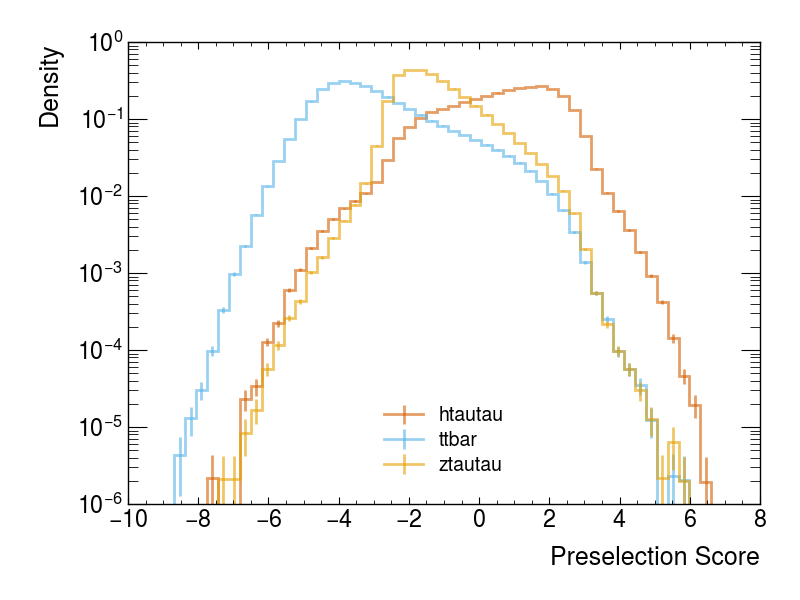
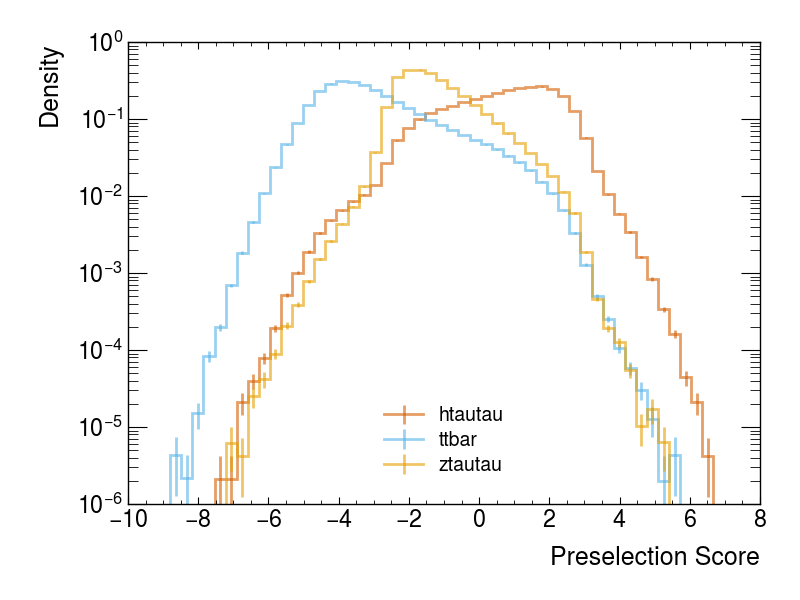
added root ntuples

diff --git a/src/nsbi_common_utils/datasets.py b/src/nsbi_common_utils/datasets.py
@@ -3,8 +3,9 @@ from collections import defaultdict
 from typing import Dict, List, Optional, Union
 import uproot
 import numpy as np
+import awkward as ak
 import pandas as pd
-
+import nsbi_common_utils
 
 class datasets:
     """
@@ -25,15 +26,10 @@ class datasets:
             branches_to_load: List of branch/column names to read from ROOT files.
         """
         self.config_path = config_path
-        self.config = self._load_config(config_path)
-        self.branches_to_load = branches_to_load
-        self.branches_all = branches_to_load.copy()
+        self.config_helper              = nsbi_common_utils.configuration.ConfigManager(file_path_string = config_path)
 
-    def _load_config(self, path: str) -> dict:
-        """Load YAML configuration file."""
-        import yaml
-        with open(path, "r") as f:
-            return yaml.safe_load(f)
+        self.branches_to_load           = branches_to_load
+        self.branches_all               = branches_to_load.copy()
 
     def add_appended_branches(self, new_branches: List[str]) -> None:
         """
@@ -62,7 +58,9 @@ class datasets:
 
         # 1. Load nominal samples
         dict_datasets["Nominal"] = {}
-        for sample_dict in self.config["Samples"]:
+        for sample_dict in self.config_helper.config["Samples"]:
+
+            # Extract metadata for the "sample" making up the model
             sample_name = sample_dict["Name"]
             file_path = sample_dict["SamplePath"]
             tree_name = sample_dict["Tree"]
@@ -75,7 +73,7 @@ class datasets:
 
             df = self._load_dataframe_from_root(file_path, tree_name, branches)
             
-            df["sample_name"] = sample_name
+            df["sample_name"] = str(sample_name)
             if weight_branch:
                 df = df.rename(columns={weight_branch: "weights"})
             else:
@@ -83,19 +81,25 @@ class datasets:
             
             dict_datasets["Nominal"][sample_name] = df
 
-        # 2. Load systematic variations (if requested)
+        # 2. Load systematic variations for constrained systematics (if load_systematics=True)
         if load_systematics:
-            systematics_list = self.config.get("Systematics", [])
+            systematics_list = self.config_helper.config.get("Systematics", [])
             for syst_dict in systematics_list:
+
+                # Extract systematic uncertainty metadata
                 syst_name = syst_dict["Name"]
                 syst_type = syst_dict["Type"]
 
+                # Different treatment for different types of constrained uncertainty
+                # Currently only supporting NormPlusShape, no MCstat
                 if syst_type == "NormPlusShape":
                     for direction in ["Up", "Dn"]:
                         region_key = f"{syst_name}_{direction}"
                         dict_datasets[region_key] = {}
 
                         for sample_dict in syst_dict.get(direction, []):
+
+                            # Extract sample metadata
                             sample_name = sample_dict["SampleName"]
                             file_path = sample_dict["Path"]
                             tree_name = sample_dict["Tree"]
@@ -108,7 +112,7 @@ class datasets:
 
                             df = self._load_dataframe_from_root(file_path, tree_name, branches)
                             
-                            df["sample_name"] = sample_name
+                            df["sample_name"] = str(sample_name)
                             if weight_branch:
                                 df = df.rename(columns={weight_branch: "weights"})
                             else:
@@ -191,12 +195,12 @@ class datasets:
         # 1. Save nominal samples
         self._save_region_datasets(
             dict_datasets["Nominal"], 
-            self.config["Samples"]
+            self.config_helper.config["Samples"]
         )
 
         # 2. Save systematic variations (if requested)
         if save_systematics:
-            systematics_list = self.config.get("Systematics", [])
+            systematics_list = self.config_helper.config.get("Systematics", [])
             for syst_dict in systematics_list:
                 syst_name = syst_dict["Name"]
                 syst_type = syst_dict["Type"]
@@ -249,6 +253,7 @@ class datasets:
 
             file_to_trees[file_path][tree_name] = df_filtered
 
+        print(f"DEBUG: ")
         # Write each file atomically with all its trees
         for file_path, trees_dict in file_to_trees.items():
             self._write_file_with_trees(file_path, trees_dict)
@@ -276,7 +281,7 @@ class datasets:
             try:
                 with uproot.open(file_path) as fin:
                     for key, classname in fin.classnames().items():
-                        tree_name = key.split(";")[0]  # strip cycle number
+                        tree_name = key.split(";")[0]  
                         if tree_name in new_trees_dict:
                             continue  # will be replaced by new version
                         if classname == "TTree":
@@ -308,7 +313,7 @@ class datasets:
         Returns:
             New dict with filtered DataFrames (copy).
         """
-        region_filters = self.config.get_channel_filters(channel_name = region)
+        region_filters = self.config_helper.get_channel_filters(channel_name = region)
         for sample_name, sample_dataframe in dataset.items():
             dataset[sample_name] = sample_dataframe.query(region_filters).copy()
         return dataset
@@ -415,8 +420,28 @@ def save_dataframe_as_root(dataset        : pd.DataFrame,
         path_to_save: Target ROOT file path.
         tree_name: Name of the TTree to create.
     """
+
     with uproot.recreate(f"{path_to_save}") as ntuple:
+        ntuple[tree_name] = ak.Array({col: dataset[col].values for col in dataset.columns})
 
-        arrays = {col: dataset[col].to_numpy() for col in dataset.columns}
 
-        ntuple[tree_name] = arrays
+def load_dataframe_from_root(path_to_load: str,
+                             tree_name: str,
+                             branches_to_load: list = None) -> pd.DataFrame:
+    """
+    Utility: read selected branches from a ROOT TTree into a DataFrame.
+
+    Args:
+        path_to_load: Source ROOT file path.
+        tree_name: TTree name inside the file.
+        branches_to_load: Branch names to read. If empty or None, load all branches.
+    Returns:
+        pd.DataFrame containing the requested branches.
+    """
+    with uproot.open(f"{path_to_load}:{tree_name}") as tree:
+        # If no branches are specified, load all
+        if not branches_to_load:
+            branches_to_load = tree.keys()
+        dataframe = tree.arrays(branches_to_load, library="pd")
+
+    return dataframe

diff --git a/src/nsbi_common_utils/training.py b/src/nsbi_common_utils/training.py
@@ -68,7 +68,8 @@ def configure_logging(verbose_level: int = 1):
 
 class preselection_network_trainer:
     '''
-    A class for training the multi-class classification neural network for preselecting phase space for SBI
+    A class for training the multi-class classification neural network 
+    used to preselect phase space for SBI
     '''
     def __init__(self, dataset, features, features_scaling, 
                     train_labels_column = 'train_labels',
@@ -367,10 +368,8 @@ class density_ratio_trainer:
                         holdout_split           = holdout_split, 
                         plot_scaled_features    = plot_scaled_features, 
                         load_trained_models     = load_trained_models_ensemble_member,
-                        recalibrate_output      = recalibrate_output,
-                        summarize_model         = summarize_model)
+                        recalibrate_output      = recalibrate_output)
             
-            summarize_model = False
         
     def train(self, hidden_layers, 
                     neurons, 
@@ -479,7 +478,7 @@ class density_ratio_trainer:
 
 
         scaled_data_train = self.scaler[ensemble_index].fit_transform(data_train)
-        scaled_data_train= pd.DataFrame(scaled_data_train, columns=self.features)
+        scaled_data_train = pd.DataFrame(scaled_data_train, columns=self.features)
 
         if plot_scaled_features:
             plot_all_features(scaled_data_train, weight_train, label_train)
@@ -512,13 +511,14 @@ class density_ratio_trainer:
                                         shuffle=True,
                                         num_workers=num_workers,  
                                         pin_memory=True,  
-                                        persistent_workers=True)
+                                        persistent_workers=False)
+            
             val_loader   = DataLoader(val_ds, 
                                       batch_size=batch_size, 
                                       shuffle=False,
                                         num_workers=num_workers,  
                                         pin_memory=True,  
-                                        persistent_workers=True)
+                                        persistent_workers=False)
 
             model = DensityRatioLightning(
                 n_hidden=hidden_layers,
@@ -535,20 +535,26 @@ class density_ratio_trainer:
 
             if callback:
                 trainer = Trainer(
+                    accelerator="auto",
+                    devices="auto",
                     max_epochs=number_of_epochs,
                     callbacks=[
                         EarlyStopping(monitor="val_loss", patience=callback_patience),
                         LearningRateMonitor(),
-                        loss_history
+                        loss_history,
+                        PrintEpochMetrics()
                     ],
-                    logger=False,
-                    enable_checkpointing=False
+                    logger=True,
+                    enable_checkpointing=False,
+                    enable_progress_bar=True,
                 )
             else:
                 trainer = Trainer(
+                    accelerator="auto",
+                    devices="auto",
                     max_epochs=number_of_epochs,
                     callbacks=[loss_history],
-                    logger=False,
+                    logger=True,
                     enable_checkpointing=False
                 )
 
@@ -558,18 +564,20 @@ class density_ratio_trainer:
         
             logger.info("Finished Training")
                 
-            # Convert Keras model to ONNX
-            self.model_NN[ensemble_index] = convert_torch_to_onnx(
-                self.model_NN[ensemble_index],
-                input_dim=len(self.features)
-            )
-
             path_to_saved_scaler        = f"{self.path_to_models}model_scaler{ensemble_index}.bin"
             path_to_saved_model         = f"{self.path_to_models}model{ensemble_index}.onnx"
 
-            save_model(self.model_NN[ensemble_index], path_to_saved_model,
-                        self.scaler[ensemble_index], path_to_saved_scaler)
-    
+            save_model(self.model_NN[ensemble_index], 
+                        torch.randn((1, len(self.features))), 
+                        path_to_saved_model,
+                        self.scaler[ensemble_index], 
+                        path_to_saved_scaler,
+                        softmax_output = False)
+            
+            # Reassign the model to be in ONNX format
+            self.scaler[ensemble_index], self.model_NN[ensemble_index] = load_trained_model(path_to_saved_model, 
+                                                                                            path_to_saved_scaler)
+
             # Save metadata
             np.save(f"{self.path_to_models}num_events_random_state_train_holdout_split{ensemble_index}.npy", 
                     np.array([holdout_num, rnd_seed]))

diff --git a/src/nsbi_common_utils/lightning_tools/density_ratio_training.py b/src/nsbi_common_utils/lightning_tools/density_ratio_training.py
@@ -65,20 +65,24 @@ class DensityRatioLightning(pl.LightningModule):
     def training_step(self, batch, batch_idx):
         x, y, w = batch
         y = y.float().view(-1, 1)
+        w = w.float().view(-1, 1)
+
         s_hat = self(x)
         if self.use_log_loss:
             loss = F.binary_cross_entropy_with_logits(s_hat, y)
         else:
             loss = F.binary_cross_entropy(s_hat, y)
 
-        loss = (loss * w.view(-1, 1)).sum()
+        weighted_loss = (loss * w).sum() / w.sum()
     
-        self.log("train_loss", loss, prog_bar=True)
-        return loss
+        self.log("train_loss", weighted_loss, prog_bar=True)
+        return weighted_loss
+    
     
     def validation_step(self, batch, batch_idx):
         x, y, w = batch
         y = y.float().view(-1, 1)
+        w = w.float().view(-1, 1)
 
         s_hat = self(x)
 
@@ -87,7 +91,7 @@ class DensityRatioLightning(pl.LightningModule):
         else:
             loss = F.binary_cross_entropy(s_hat, y)
 
-        loss = (loss * w.view(-1, 1)).sum()
+        loss = (loss * w).sum() / w.sum()
 
         self.log("val_loss", loss, prog_bar=True)
 

diff --git a/src/nsbi_common_utils/__init__.py b/src/nsbi_common_utils/__init__.py
@@ -4,6 +4,10 @@
 
 from nsbi_common_utils import configuration
 from nsbi_common_utils import datasets
+from nsbi_common_utils import training
+from nsbi_common_utils import plotting
+from nsbi_common_utils import inference
+from nsbi_common_utils import model
 
 __all__ = [
     'configuration',
@@ -11,6 +15,5 @@ __all__ = [
     'training',
     'plotting',
     'inference',
-    'flows',
     'model'
 ]

diff --git a/src/nsbi_common_utils/inference.py b/src/nsbi_common_utils/inference.py
@@ -4,9 +4,6 @@ import jax.numpy as jnp
 jax.config.update("jax_enable_x64", True)
 
 from sklearn.model_selection import train_test_split
-import tensorflow as tf
-tf.get_logger().setLevel('ERROR')
-from tensorflow.keras.optimizers import Nadam
 import matplotlib.pyplot as plt
 from iminuit import Minuit
 

diff --git a/FAIR_universe_Higgs_tautau/scripts/preselection_network.py b/FAIR_universe_Higgs_tautau/scripts/preselection_network.py
@@ -22,7 +22,6 @@ hep.style.use(hep.style.ATLAS)
 
 sys.path.append('../src')
 import nsbi_common_utils
-from nsbi_common_utils import training, datasets, configuration
 from nsbi_common_utils.training import preselection_network_trainer
 
 def load_config(path):
